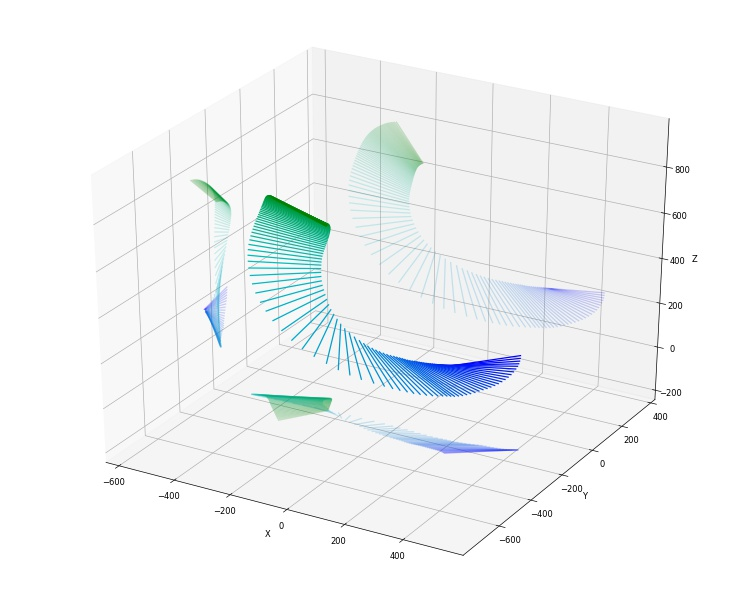
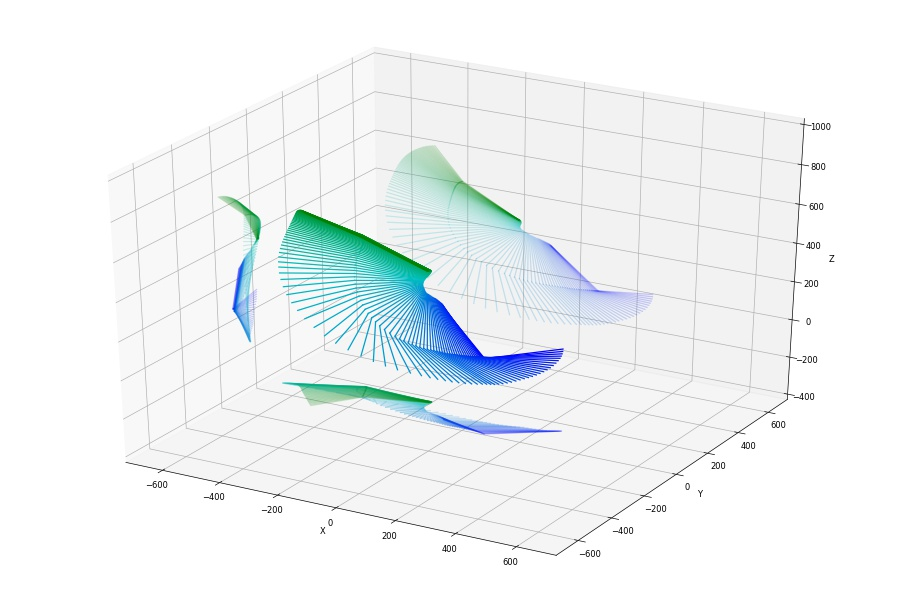
added limb analysis

diff --git a/vis.py b/vis.py
@@ -9,7 +9,7 @@ import numpy as np
 import matplotlib.pyplot as plt
 from mpl_toolkits.mplot3d import Axes3D
 from colour import Color
-
+import time
 
 #plot1= pd.read_json(r'C:\Users\neilw\Desktop\RF Vpython\RFVP\json\plot1rf3.json')
 #plot2= pd.read_json(r'C:\Users\neilw\Desktop\RF Vpython\RFVP\json\plot2rf5.json')
@@ -72,7 +72,7 @@ def TimeColour3DJ(plot1,index,bones,joints,graph_id):
     
     
 def TimeColour3DS(plot1,index,bones,joints,graph_id):
- 
+
     frames=np.shape(plot1)[1]
     #joint 0 to 27 Rwrist
     plot1x=[]
@@ -92,7 +92,7 @@ def TimeColour3DS(plot1,index,bones,joints,graph_id):
         x.append(plot1.iloc[dex_prev][i][0])
         y.append(plot1.iloc[dex_prev][i][1])
         z.append(plot1.iloc[dex_prev][i][2])
-                                      
+                                  
     fig = plt.figure(figsize=(12.5, 10))
     ax = fig.add_subplot(111, projection='3d')
     
@@ -102,18 +102,19 @@ def TimeColour3DS(plot1,index,bones,joints,graph_id):
     rgbc=[]
     for i in colors:
         rgbc.append(i.rgb)
-    
+
     #make axis fit correctly
     xm=(max(plot1x)+min(plot1x))/2
     ym=(max(plot1y)+min(plot1y))/2
     zm=(max(plot1z)+min(plot1z))/2
     
+
     for i in range(frames):
         ax.plot([plot1x[i],x[i]],[plot1y[i],y[i]],[plot1z[i],z[i]], color=rgbc[i])
         ax.plot([plot1x[i],x[i]],[plot1y[i],y[i]],[zm-600,zm-600],color=rgbc[i],alpha=0.2) #cmap=cm.coolwarm)
         ax.plot([xm-600,xm-600], [plot1y[i],y[i]], [plot1z[i],z[i]],color=rgbc[i],alpha=0.2) #cmap=cm.coolwarm)
         ax.plot([plot1x[i],x[i]], [ym+600,ym+600], [plot1z[i],z[i]],color=rgbc[i],alpha=0.2) #cmap=cm.coolwarm)
-    
+
     ax.set_xlabel('X')
     ax.set_xlim(xm-600, xm+600)
     ax.set_ylabel('Y')
@@ -123,10 +124,87 @@ def TimeColour3DS(plot1,index,bones,joints,graph_id):
     plt.tight_layout()
 
     plt.savefig("graph%d.jpg"%graph_id, dpi=60)  
-    
+
     plt.show()
 
+def TC3DLimb(plot1,index,bones,joints,graph_id):
+    #take joint in between bones
+    
+    frames=np.shape(plot1)[1]
+    #mapping index to bones to find joint number
+    
+    
+    
+    dex=joints[index]
+    dex_prev=joints[index-1]
+    dex_post=joints[index+1]
+    #check it actually is a limb joint by saying limbs are sequential numbers- bit of a gimmicky method- MOVED INTO menu 
+    
+    print(dex)
+    print(dex_prev)
+    print(dex_post)
+    
+    plot1x=[]
+    plot1y=[]
+    plot1z=[]
+    x=[]
+    y=[]
+    z=[]
+    x1=[]
+    y1=[]
+    z1=[]
+    
+    for i in range(np.shape(plot1)[1]):
+        plot1x.append(plot1.iloc[dex_post][i][0])
+        plot1y.append(plot1.iloc[dex_post][i][1])
+        plot1z.append(plot1.iloc[dex_post][i][2])
+        x.append(plot1.iloc[dex][i][0])
+        y.append(plot1.iloc[dex][i][1])
+        z.append(plot1.iloc[dex][i][2])
+        x1.append(plot1.iloc[dex_prev][i][0])
+        y1.append(plot1.iloc[dex_prev][i][1])
+        z1.append(plot1.iloc[dex_prev][i][2])                  
+                      
+    fig = plt.figure(figsize=(15, 10))
+    ax = fig.add_subplot(111, projection='3d')
+    
+    #ax.view_init(20, 200)
+    red = Color("blue")
+    colors = list(red.range_to(Color("green"),102))
+    
+    rgbc=[]
+    for i in colors:
+        rgbc.append(i.rgb)
+        
+    #make axis fit correctly
+    xm=(max(x)+min(x))/2
+    ym=(max(y)+min(y))/2
+    zm=(max(z)+min(z))/2
+    
+    for i in range(frames):
+        
+        ax.plot([plot1x[i],x[i]],[plot1y[i],y[i]],[plot1z[i],z[i]], color=rgbc[i])
+        ax.plot([plot1x[i],x[i]],[plot1y[i],y[i]],[zm-600,zm-600],color=rgbc[i],alpha=0.2) #cmap=cm.coolwarm)
+        ax.plot([xm-600,xm-600], [plot1y[i],y[i]], [plot1z[i],z[i]],color=rgbc[i],alpha=0.2) #cmap=cm.coolwarm)
+        ax.plot([plot1x[i],x[i]], [ym+600,ym+600], [plot1z[i],z[i]],color=rgbc[i],alpha=0.2) #cmap=cm.coolwarm)
+        
+        ax.plot([x[i],x1[i]],[y[i],y1[i]],[z[i],z1[i]], color=rgbc[i])
+        ax.plot([x[i],x1[i]],[y[i],y1[i]],[zm-600,zm-600],color=rgbc[i],alpha=0.2) #cmap=cm.coolwarm)
+        ax.plot([xm-600,xm-600], [y[i],y1[i]], [z[i],z1[i]],color=rgbc[i],alpha=0.2) #cmap=cm.coolwarm)
+        ax.plot([x[i],x1[i]], [ym+600,ym+600], [z[i],z1[i]],color=rgbc[i],alpha=0.2) #cmap=cm.c
    
+    ax.set_xlabel('X')
+    ax.set_xlim(-700, 700)
+    ax.set_ylabel('Y')
+    ax.set_ylim(-700, 700)
+    ax.set_zlabel('Z')
+    ax.set_zlim(-400, 1000)   
+    
+    plt.tight_layout()
+    plt.savefig("graph%d.jpg"%graph_id, dpi=60)    
+    
+    plt.show()
+    
 def Hagerstrand(plot1,index,bones,joints,graph_id):
     
     frames=np.shape(plot1)[1]

diff --git a/main_select.py b/main_select.py
@@ -129,8 +129,9 @@ def M(m):
         graph_type = 0
     elif val == "Hagerstrand": 
         graph_type = 1
-
-menu(choices=['TimeColour3D', 'Hagerstrand'], index=0, bind=M)
+    elif val == "TC3DLimb":
+        graph_type = 2
+menu(choices=['TimeColour3D', 'Hagerstrand','TC3DLimb'], index=0, bind=M)
 
 #-----------------------------------------------------------------------------
 #Toggle comparison model
@@ -160,22 +161,43 @@ def Run(b):
     else:
         warning.text=""
         if graph_type ==0:
-            if s_index==None:
+            if j_index!=None and s_index==None:
                 warning.text="""  <font color="red"> Loading graph </font> """
                 vis.TimeColour3DJ(plot1,j_index,bones,joints,graph_id)
                 gwt.text="\n3D position of each frame plotted. Colour scale from blue to green varies with time:\n <img src='graph%d.jpg'/>"%graph_id
                 warning.text=""
                 # gwt2.text="\n"
-            else:
+            elif j_index==None and s_index!=None:
                 warning.text="""  <font color="red"> Loading graph </font> """
                 vis.TimeColour3DS(plot1,s_index,bones,joints,graph_id)
                 gwt.text="\n3D position of each frame plotted. Colour scale from blue to green varies with time:\n <img src='graph%d.jpg'/>"%graph_id
                 warning.text=""
+#            else:
+#                warning.text="""  <font color="red"> Both joint and bone selected</font> """
+                #considering requiring multiple to be selected
         elif graph_type ==1:
-            vis.Hagerstrand(plot1,j_index,bones,joints,graph_id)
-            gwt.text="\n1st figure shows position in y-z plane with time in x direction. 2nd figure shows position in x-y plane with time in y direction:\n <img src='graph%d.jpg'/>"%graph_id
-            #gwt2.text="\n <img src='%f.jpg'/>"%rngid
-
+            if s_index!=None:
+                warning.text="""  <font color="red"> Select a joint</font> """
+            else:
+                warning.text="""  <font color="red"> Loading graph </font> """
+                vis.Hagerstrand(plot1,j_index,bones,joints,graph_id)
+                gwt.text="\n1st figure shows position in y-z plane with time in x direction. 2nd figure shows position in x-y plane with time in y direction:\n <img src='graph%d.jpg'/>"%graph_id
+                warning.text=""
+                #gwt2.text="\n <img src='%f.jpg'/>"%rngid
+        
+        elif graph_type ==2:
+            if j_index!=None:               
+                if joints[j_index-1]+1!=joints[j_index+1]-1:
+                    warning.text="""  <font color="red"> Select a limb joint! (elbows and knees only)</font> """
+                    
+                else:
+                    warning.text="""  <font color="red"> Loading graph </font> """
+                    vis.TC3DLimb(plot1,j_index,bones,joints,graph_id)
+                    gwt.text="\n3D position of each frame plotted. Colour scale from blue to green varies with time:\n <img src='graph%d.jpg'/>"%graph_id
+                    warning.text=""
+            else: 
+                warning.text="""  <font color="red"> Select a limb joint</font> """
+            
         graph_id+=1
         
 run_b=button(text="3D plot", pos=scene.caption_anchor, bind=Run)

diff --git a/visualisation.py b/visualisation.py
@@ -22,12 +22,16 @@ plot2= pd.read_json(r'C:\Users\neilw\Desktop\RF Vpython\RFVP\json\plot2rf5.json'
 frames=np.shape(plot1)[1]
 #joint 0 to 27 Rwrist
 
+
 plot1x=[]
 plot1y=[]
 plot1z=[]
 x=[]
 y=[]
 z=[]
+x1=[]
+y1=[]
+z1=[]
 for i in range(np.shape(plot1)[1]):
     plot1x.append(plot1.iloc[27][i][0])
     plot1y.append(plot1.iloc[27][i][1])
@@ -35,10 +39,14 @@ for i in range(np.shape(plot1)[1]):
     x.append(plot1.iloc[26][i][0])
     y.append(plot1.iloc[26][i][1])
     z.append(plot1.iloc[26][i][2])
-                  
+    x1.append(plot1.iloc[25][i][0])
+    y1.append(plot1.iloc[25][i][1])
+    z1.append(plot1.iloc[25][i][2])                  
                   
 fig = plt.figure(figsize=(15, 10))
 ax = fig.add_subplot(111, projection='3d')
+
+#ax.view_init(20, 200)
 
 red = Color("blue")
 colors = list(red.range_to(Color("green"),102))
@@ -47,18 +55,62 @@ rgbc=[]
 for i in colors:
     rgbc.append(i.rgb)
 for i in range(100):
+    
     ax.plot([plot1x[i],x[i]],[plot1y[i],y[i]],[plot1z[i],z[i]], color=rgbc[i])
-
     ax.plot([plot1x[i],x[i]],[plot1y[i],y[i]],[-400,-400],color=rgbc[i],alpha=0.2) #cmap=cm.coolwarm)
     ax.plot([-700,-700], [plot1y[i],y[i]], [plot1z[i],z[i]],color=rgbc[i],alpha=0.2) #cmap=cm.coolwarm)
     ax.plot([plot1x[i],x[i]], [700,700], [plot1z[i],z[i]],color=rgbc[i],alpha=0.2) #cmap=cm.coolwarm)
-
+    ax.plot([x[i],x1[i]],[y[i],y1[i]],[z[i],z1[i]], color=rgbc[i])
+    ax.plot([x[i],x1[i]],[y[i],y1[i]],[-400,-400],color=rgbc[i],alpha=0.2) #cmap=cm.coolwarm)
+    ax.plot([-700,-700], [y[i],y1[i]], [z[i],z1[i]],color=rgbc[i],alpha=0.2) #cmap=cm.coolwarm)
+    ax.plot([x[i],x1[i]], [700,700], [z[i],z1[i]],color=rgbc[i],alpha=0.2) #cmap=cm.c
 ax.set_xlabel('X')
 ax.set_xlim(-700, 700)
 ax.set_ylabel('Y')
 ax.set_ylim(-700, 700)
 ax.set_zlabel('Z')
 ax.set_zlim(-400, 1000)
+
+#####
+#bones trace
+
+#plot1x=[]
+#plot1y=[]
+#plot1z=[]
+#x=[]
+#y=[]
+#z=[]
+#for i in range(np.shape(plot1)[1]):
+#    plot1x.append(plot1.iloc[27][i][0])
+#    plot1y.append(plot1.iloc[27][i][1])
+#    plot1z.append(plot1.iloc[27][i][2])
+#    x.append(plot1.iloc[26][i][0])
+#    y.append(plot1.iloc[26][i][1])
+#    z.append(plot1.iloc[26][i][2])
+#                  
+#                  
+#fig = plt.figure(figsize=(15, 10))
+#ax = fig.add_subplot(111, projection='3d')
+#
+#red = Color("blue")
+#colors = list(red.range_to(Color("green"),102))
+#
+#rgbc=[]
+#for i in colors:
+#    rgbc.append(i.rgb)
+#for i in range(100):
+#    ax.plot([plot1x[i],x[i]],[plot1y[i],y[i]],[plot1z[i],z[i]], color=rgbc[i])
+#
+#    ax.plot([plot1x[i],x[i]],[plot1y[i],y[i]],[-400,-400],color=rgbc[i],alpha=0.2) #cmap=cm.coolwarm)
+#    ax.plot([-700,-700], [plot1y[i],y[i]], [plot1z[i],z[i]],color=rgbc[i],alpha=0.2) #cmap=cm.coolwarm)
+#    ax.plot([plot1x[i],x[i]], [700,700], [plot1z[i],z[i]],color=rgbc[i],alpha=0.2) #cmap=cm.coolwarm)
+#
+#ax.set_xlabel('X')
+#ax.set_xlim(-700, 700)
+#ax.set_ylabel('Y')
+#ax.set_ylim(-700, 700)
+#ax.set_zlabel('Z')
+#ax.set_zlim(-400, 1000)
 ################################################################################
 #frames=np.shape(plot1)[1]
 #
